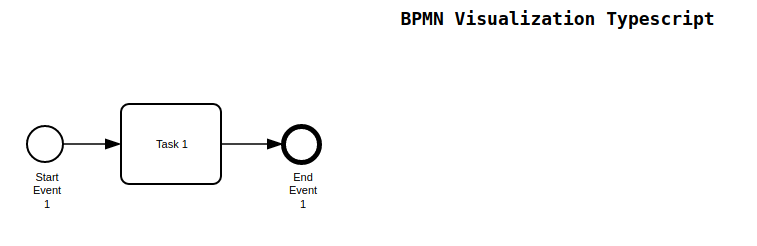
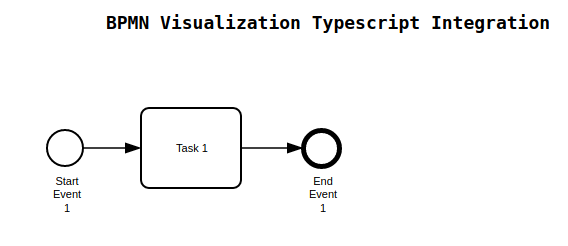
html page: update id and title

diff --git a/examples/projects/typescript-vanilla-with-rollup/src/index.html b/examples/projects/typescript-vanilla-with-rollup/src/index.html
@@ -2,17 +2,17 @@
 <html lang="en">
 <head>
     <meta charset="UTF-8">
-    <title>BPMN Visualization Typescript</title>
+    <title>BPMN Visualization Typescript Integration</title>
     <link href="static/css/main.css" rel="stylesheet">
     <link rel="shortcut icon" href="static/img/favicon.ico">
 </head>
 <body>
     <header class="info-centered">
-        <h2>BPMN Visualization Typescript</h2>
+        <h2>BPMN Visualization Typescript Integration</h2>
     </header>
     <section>
-        <!-- container for the drawing -->
-        <div id="graph"></div>
+        <!-- container used to display the BPMN diagram -->
+        <div id="bpmn-viewport"></div>
     </section>
 
     <!-- load global settings for mxGraph -->

diff --git a/examples/projects/typescript-vanilla-with-rollup/src/app/initialize.ts b/examples/projects/typescript-vanilla-with-rollup/src/app/initialize.ts
@@ -62,7 +62,7 @@ const bpmnFileContent = `<bpmn:definitions xmlns:xsi="http://www.w3.org/2001/XML
 
 export default function initialize() {
   // instantiate the BpmnVisualization, pass the container HTMLElement - present in index.html(<div id="graph"></div>)
-  let bpmnVisualization = new BpmnVisualization(window.document.getElementById('graph'));
+  let bpmnVisualization = new BpmnVisualization(window.document.getElementById('bpmn-viewport'));
   // load the BPMN diagram defined above
   bpmnVisualization.load(bpmnFileContent);
 }
